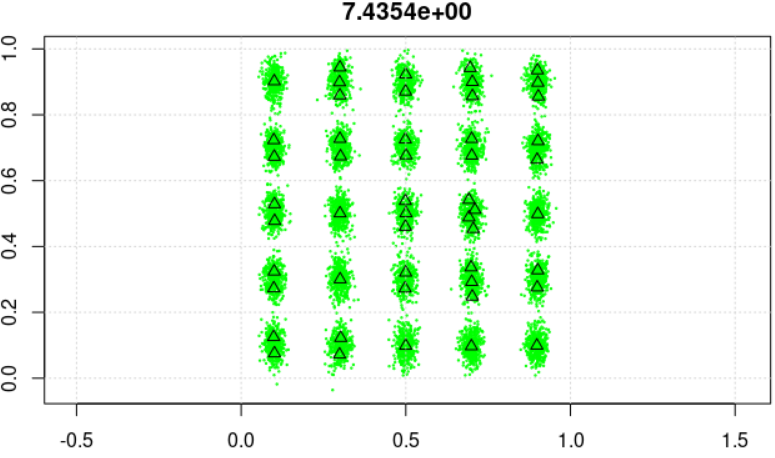
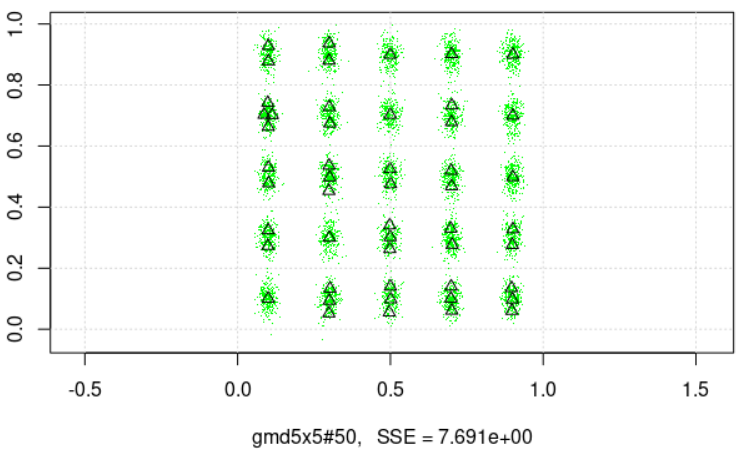
example result for Norm25-new#25 added

diff --git a/HartiganWong/hartiganwong.md b/HartiganWong/hartiganwong.md
@@ -1,14 +1,14 @@
-# Comparison to the Hartigan-Wong Algorithm
+# Addendum: Experiments with  the Hartigan-Wong Algorithm
 
-In the breathing k-means [preprint](https://arxiv.org/abs/2006.15666v3), we stated w.r.t. experiments with the Hartigan-Wong algorithm that *the results indicated
+In the breathing *k*-means [preprint](https://arxiv.org/abs/2006.15666v3), we stated w.r.t. experiments with the Hartigan-Wong algorithm that *the results indicated
 very clearly that, at least for these data sets, the Hartigan-Wong algorithm did not produce
-results competitive with k-means++, even less so with breathing k-means*.
+results competitive with *k*-means++, even less so with breathing *k*-means*.
 
-There have been questions from readers regarding these statements since they seem to contradict the results of [Telgarsky and Vattani (2010) ](http://proceedings.mlr.press/v9/telgarsky10a/telgarsky10a.pdf)  who reported superior results for the Hartigan-Wong Algorithm over Lloyd's algorithm (however, in an online variant) both with random and k-means++ initialization.
+There have been questions from readers regarding these statements since they seem to contradict the results of [Telgarsky and Vattani (2010) ](http://proceedings.mlr.press/v9/telgarsky10a/telgarsky10a.pdf)  who reported superior results for the Hartigan-Wong Algorithm over Lloyd's algorithm (however, in an online variant) both with random and *k*-means++ initialization.
 
 Therefore, we complemented the experiments described in the preprint by corresponding experiments with the Hartigan-Wong Algorithm in the widely-used [implementation provided by the R language in the stats package](https://www.rdocumentation.org/packages/stats/versions/3.6.2/topics/kmeans). In the stats package of R, the Hartigan-Wong algorithm is the default for solving *k*-means problems. One of the data sets used in the experiments, Cloud, has also been used by Telgarsky and Vattani (2010).
 ## Overall Result (TL;DR)
-The observed solution quality of Hartigan-Wong for the investigated problems was (with very few and marginal exceptions) clearly inferior to k-means++ (and even more so to breathing k-means). In many cases, Hartigan-Wong produced solutions with dramatically higher error values. Moreover, the R-implementation employed for the experiments failed to deliver a valid solution in many experiments. For some problems, all runs failed, making a comparison to the other algorithms impossible. 
+The assessment in the preprint was fully confirmed: The observed solution quality of Hartigan-Wong for the investigated problems was (with very few and marginal exceptions) clearly inferior to *k*-means++ (and even more so to breathing *k*-means). In many cases, Hartigan-Wong produced solutions with dramatically higher error values. Moreover, the implementation from the R language and environment employed for the experiments failed to deliver a valid solution in many experiments. For some problems, all runs failed, preventing a comparison to the other algorithms. 
 
 ## Experiments
 For each problem, we performed several runs of Hartigan-Wong: 100 runs each for the 20 two-dimensional problems and 25 runs each for the high-dimensional problems. One run consisted of the following R-call:
@@ -21,30 +21,35 @@ kmeans( X,
         algorithm = "Hartigan-Wong")
 ```
 
-The number ```iter.max = 100``` of iterations was sufficient for all problems. The parameter ```nstart = 10``` specifies that, for each run, the Hartigan-Wong algorithm is to be performed ten times before the best result is chosen. This same value is used per default in ```scikit-learn``` for k-means++ (and was also used in the preprint as).
+The number ```iter.max = 100``` of iterations was sufficient for all problems. The parameter ```nstart = 10``` specifies that, for each run, the Hartigan-Wong algorithm is to be performed ten times before the best result is chosen. This same value is used per default in ```scikit-learn``` for *k*-means++ (and was also used in the preprint as).
 
 The tables below correspond to tables 4 to 8 in the preprint and have the following additional columns related to Hartigan-Wong (colored):
 
 * ![suv](./img/success.png) - the number of successful runs of Hartigan-Wong<br>This had to be added because in several cases, the Hartigan-Wong Algorithm aborted with the error message ```<simpleWarning: Quick-TRANSfer stage steps exceeded maximum (= 5000000)>```. The occurrence of this message seemed to depend on the *k*-means problem. For the 2D-Problems, this occurred most often for the problem "Birch1#100", where only 23 of 100 runs succeeded. Among the high-dimensional problems, particularly those based on the "Intrusion" data set, seemed nearly unsolvable by Hartigan-Wong. The SSE statistics shown were taken from the successful runs. The above problem has been known for a long time (here is a [stackoverflow post from 2014](https://stackoverflow.com/questions/21382681/kmeans-quick-transfer-stage-steps-exceeded-maximum)) but no solution seems to exist so far. The recommendations are often to use a different algorithm or to increase the number of repetitions.
 * ![suv](./img/phi_hw.png) - the SSE of the Hartigan-Wong solution
-* ![suv](./img/delta_phi_hw.png) - the percentage error improvent of Hartigan-Wong over *k*-means++ (negative values indicate deteriorations)
-* ![suv](./img/delta_phi_hw_bkm.png) - the percentage error improvent of "breathing *k*-means" over Hartigan-Wong
+* ![suv](./img/delta_phi_hw.png) - the percentage error improvent of Hartigan-Wong over *k*-means++ defined as $\Delta\phi_{hw} = 1 - \phi_{hw}/\phi_{km++}$ (negative values indicate deteriorations)
+* ![suv](./img/delta_phi_hw_bkm.png) - the percentage error improvent of "breathing *k*-means" over Hartigan-Wong defined as $\Delta\phi^{hw}_{bkm} = 1 - \phi_{bkm}/\phi_{hw}$ 
+
+As described in the [preprint on page 20](https://arxiv.org/pdf/2006.15666.pdf#page=20), the column $\Delta\phi_{bkm}$ contains the relative SSE improvement of "Breathing *k*-means" over *k*-means++ defined as $\Delta\phi_{bkm} = 1 - \phi_{bkm}/\phi_{km++}$. In the preprint this was denoted simply as 
+$\Delta\phi$ since no other algorithm was compared to *k*-means++.
 
 ### Two-dimensional Data Sets
-For these problems, the mean solutions from Hartigan-Wong were inferior to those from *k*-means++ apart from the two problems "Aggregation#200" and "Flame#80" (see table below). Breathing *k*-means produced for all problems better average solutions than Hartigan-Wong and *k*-means++.
+For these problems, the average solutions from Hartigan-Wong were inferior to those from *k*-means++ (see table below) apart from two problems,"Aggregation#200" and "Flame#80". Breathing *k*-means produced for all problems better average solutions (green column) than Hartigan-Wong and *k*-means++.
 ![ko](./img/table2D.png)
 
 
 
-Below is a typical result for the problem "gmd5x5". Each good solution for this problem needs to have exactly two centroids in each cluster. This is obviously violated by Hartigan-Wong, which positioned one, three, and in one case even four centroids in particular clusters. On average, the Hartigan-Wong solutions for this problem were 13.9 percent worse than those from k-means++. The solutions of breathing k-means were about 18% better than those of Hartigan-Wong.
+Below is a typical result for the problem "gmd5x5". Each good solution for this problem needs to have exactly two centroids in each cluster. This is violated by Hartigan-Wong, which positioned one, three, and in one case even four centroids in particular clusters. On average, the Hartigan-Wong solutions for this problem were 13.9 percent worse than those from *k*-means++. The solutions of breathing *k*-means were about 18% better than those of Hartigan-Wong.
 ![ko](./img/gmd5x5.png)
 ### High-dimensional Data Sets
 
 For the Cloud data set, the solutions from Hartigan-Wong were consistently inferior by two-digit percentages.
 ![ko](./img/tableCloud.png)
 
-For the Norm25-new data set, the results were special. For the seemingly trivial case *k=25* (where both k-means++ and breathing k-means practically always find the obvious solution with one centroid per cluster), Hartigan-Wong found mostly poor solutions with huge error values. Also for *k=50*, Hartigan-Wong could not find competitive solutions. However, for *k in {100,150,200}* better average solutions were found than by k-means++ and for *k in {150,200}* the Hartigan-Wong solutions were even slightly better than those found by breathing *k*-means
+For the Norm25-new data set, the results were special. For the seemingly trivial case *k=25* (where both *k*-means++ and breathing *k*-means practically always found the obvious solution with one centroid per cluster), Hartigan-Wong found mostly poor solutions with huge error values. Also, for *k=50*, Hartigan-Wong could not find competitive solutions. However, for *k in {100,150,200}* better average solutions were found than by *k*-means++ and for *k in {150,200}* the Hartigan-Wong solutions were even slightly better than those found by breathing *k*-means
 ![ko](./img/tableNorm25-new.png)
+The example below helps to understand the enormous difference in SSE between Hartigan-Wong and the other two algorithms for problem Norm25-new#25. Since one can visually distinguish only 20 of 25 centroids (the triangles), probably 5 clusters have two associated centroids. Therefore some of the other centroids are positioned in the center of gravity of several clusters, which causes the immense SSE. Both *k*-means++ and breathing *k*-means position one centroid in each cluster for this problem and, therefore, have the same SSE values (three orders of magnitude smaller than Hartigan-Wong).
+![ko](./img/Norm25-new.png)
 
 The Intrusion data set was the hardest one for the used Hartigan-Wong implementation of the R package. Only for *k=25* was a solution found. All runs with *k in {50,100,150,200}* stopped with the message
 
@@ -61,10 +66,8 @@ While we do not make an effort to report detailed CPU usage for Hartigan-Wong, t
 
 ## R code used for the experiments
 
-- [R notebook](./hartigan_experiments.Rmd) (to be run in RStudio)
+- [R notebook](./hartigan_experiments.Rmd) (to be run in RStudio) ([html preview](https://htmlpreview.github.io/?https://github.com/gittar/breathing-k-means/blob/master/HartiganWong/hartigan_experiments.nb.html))
 
 ## Concluding Remarks
 
-Given that Hartigan-Wong is the default *k*-means algorithm in the R programming environment and, therefore, very widely used, it was completely unexpected that it frequently produced very poor solutions and even failed in a considerable number of cases.
-
-If there should be any flaw in our experimental set-up (see the R-Notebook) or a better availble implementation of the Hartigan-Wong algorithm available, hints are very much appreciated.
+Given that Hartigan-Wong is the default *k*-means algorithm in the R programming environment and, therefore, very widely used, it was completely unexpected that it frequently produced very poor solutions and even failed in a considerable number of cases. However, apart from increasing the number of runs (parameter ```nstart```) to much larger values than 10, an expensive brute-force strategy, we currently see no way to improve the results.
